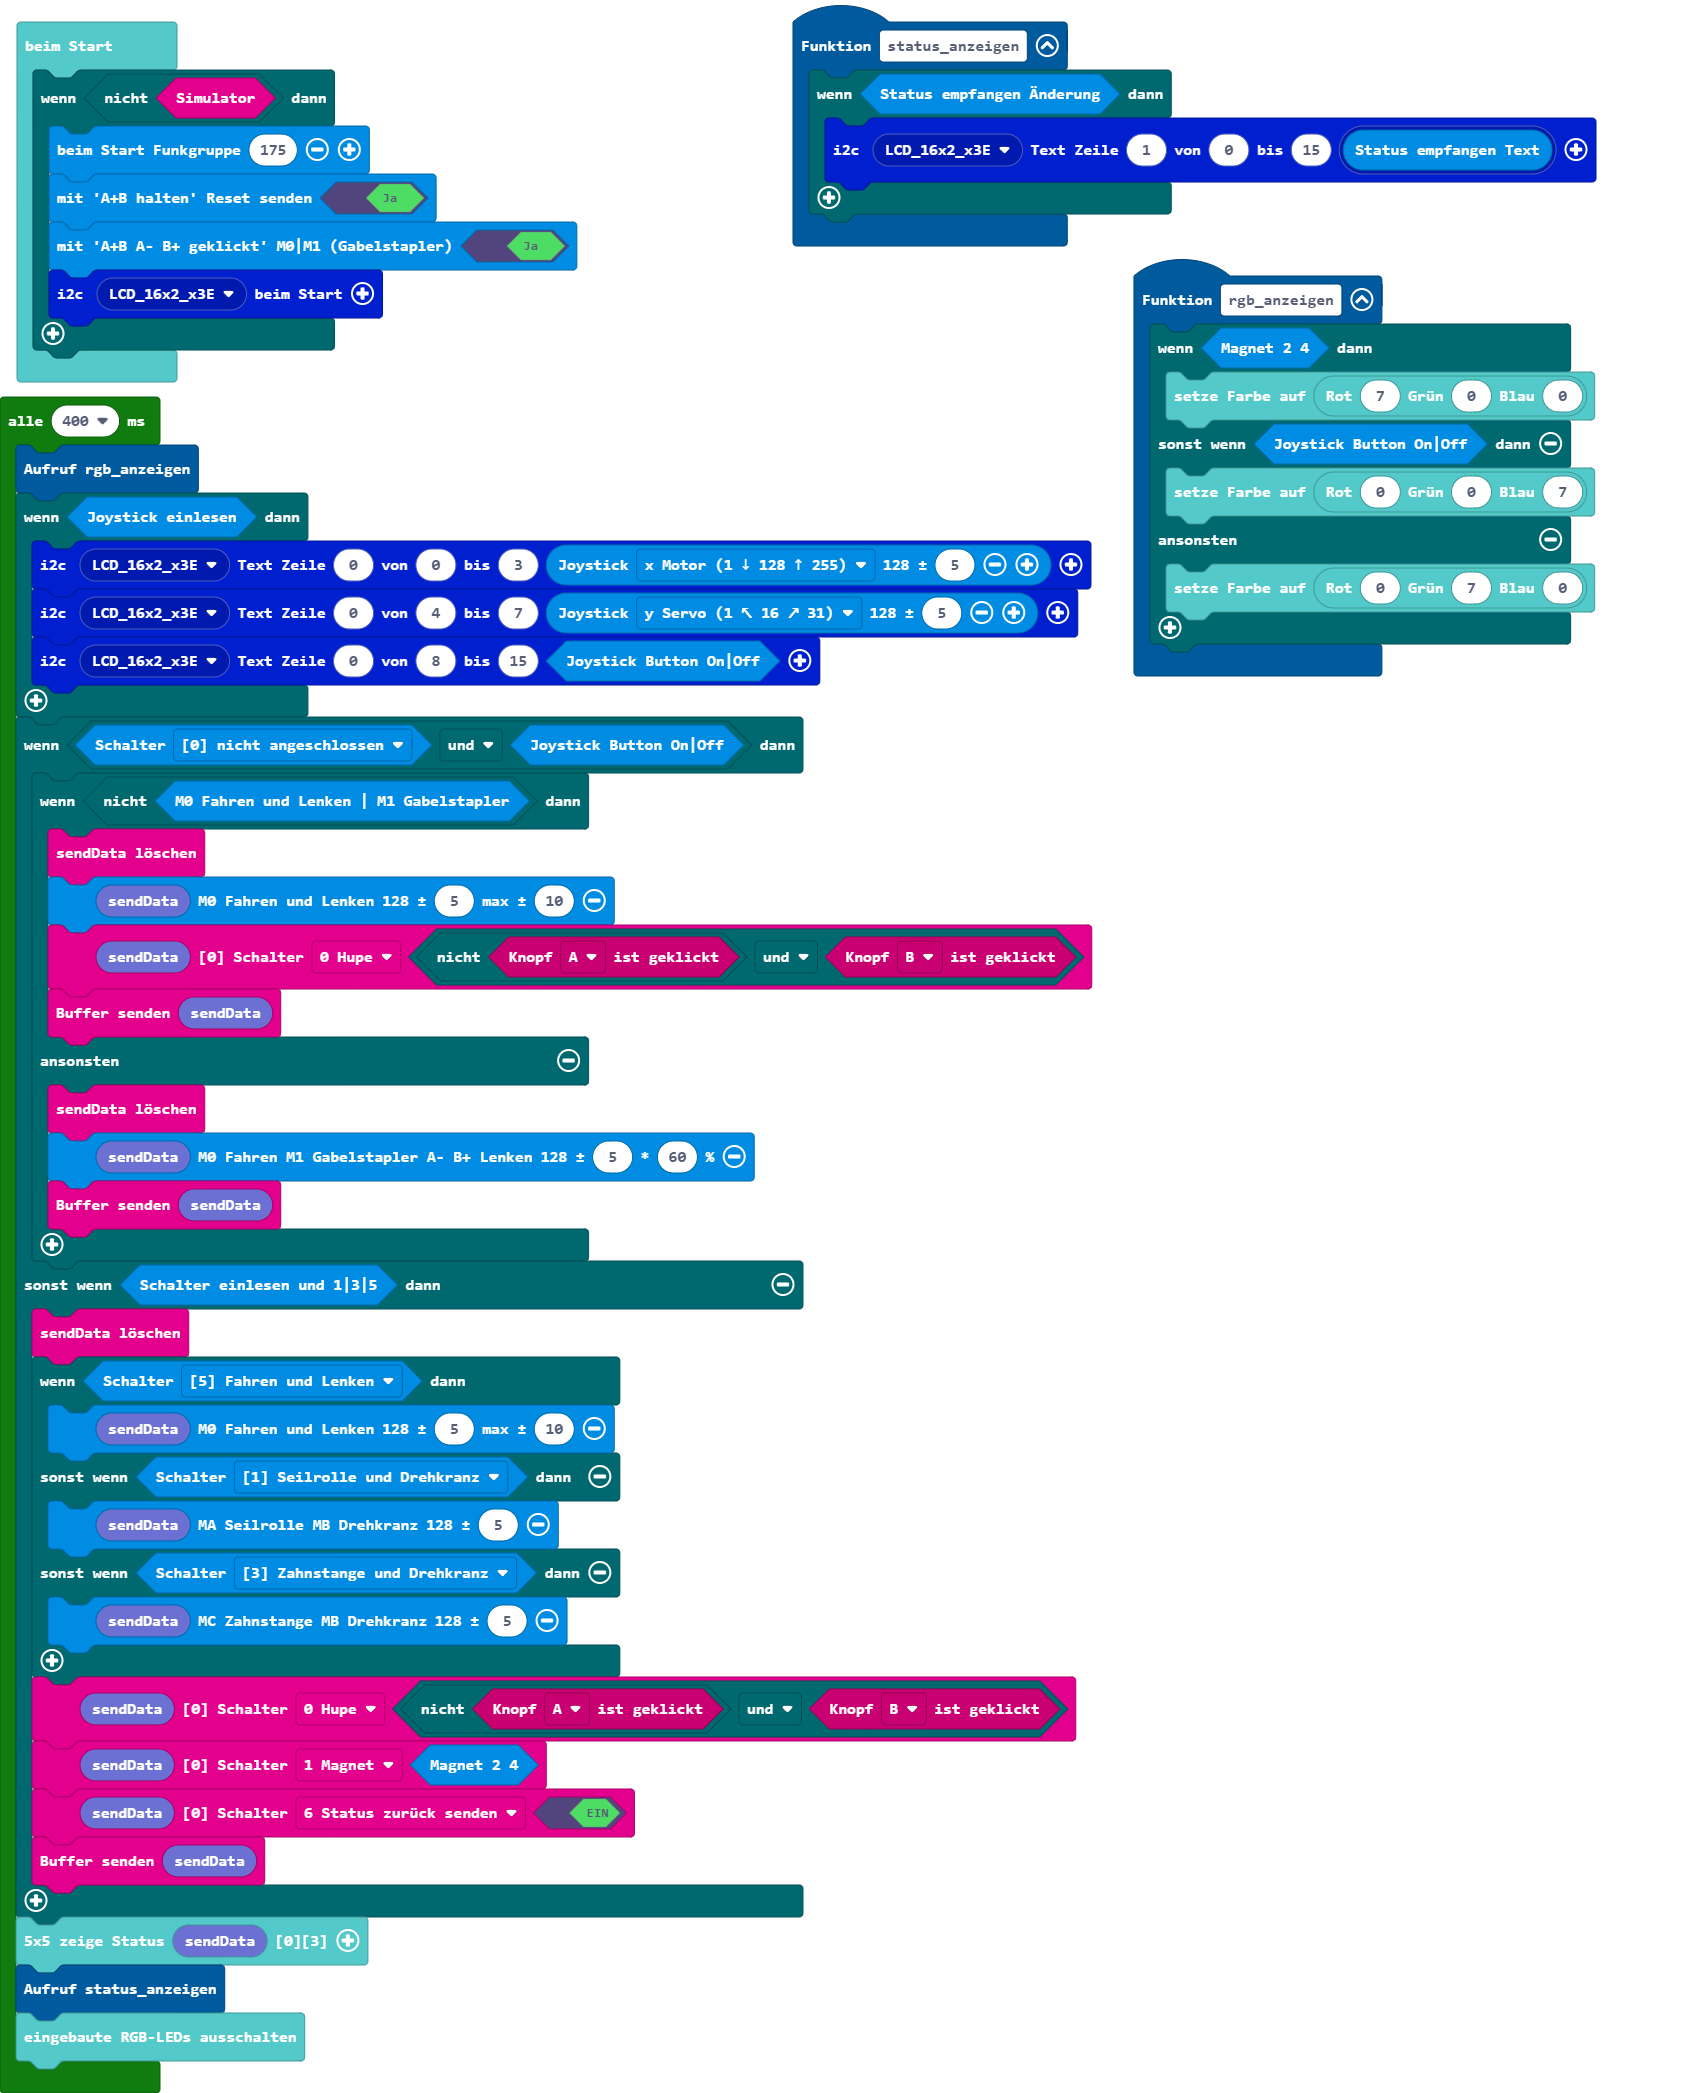
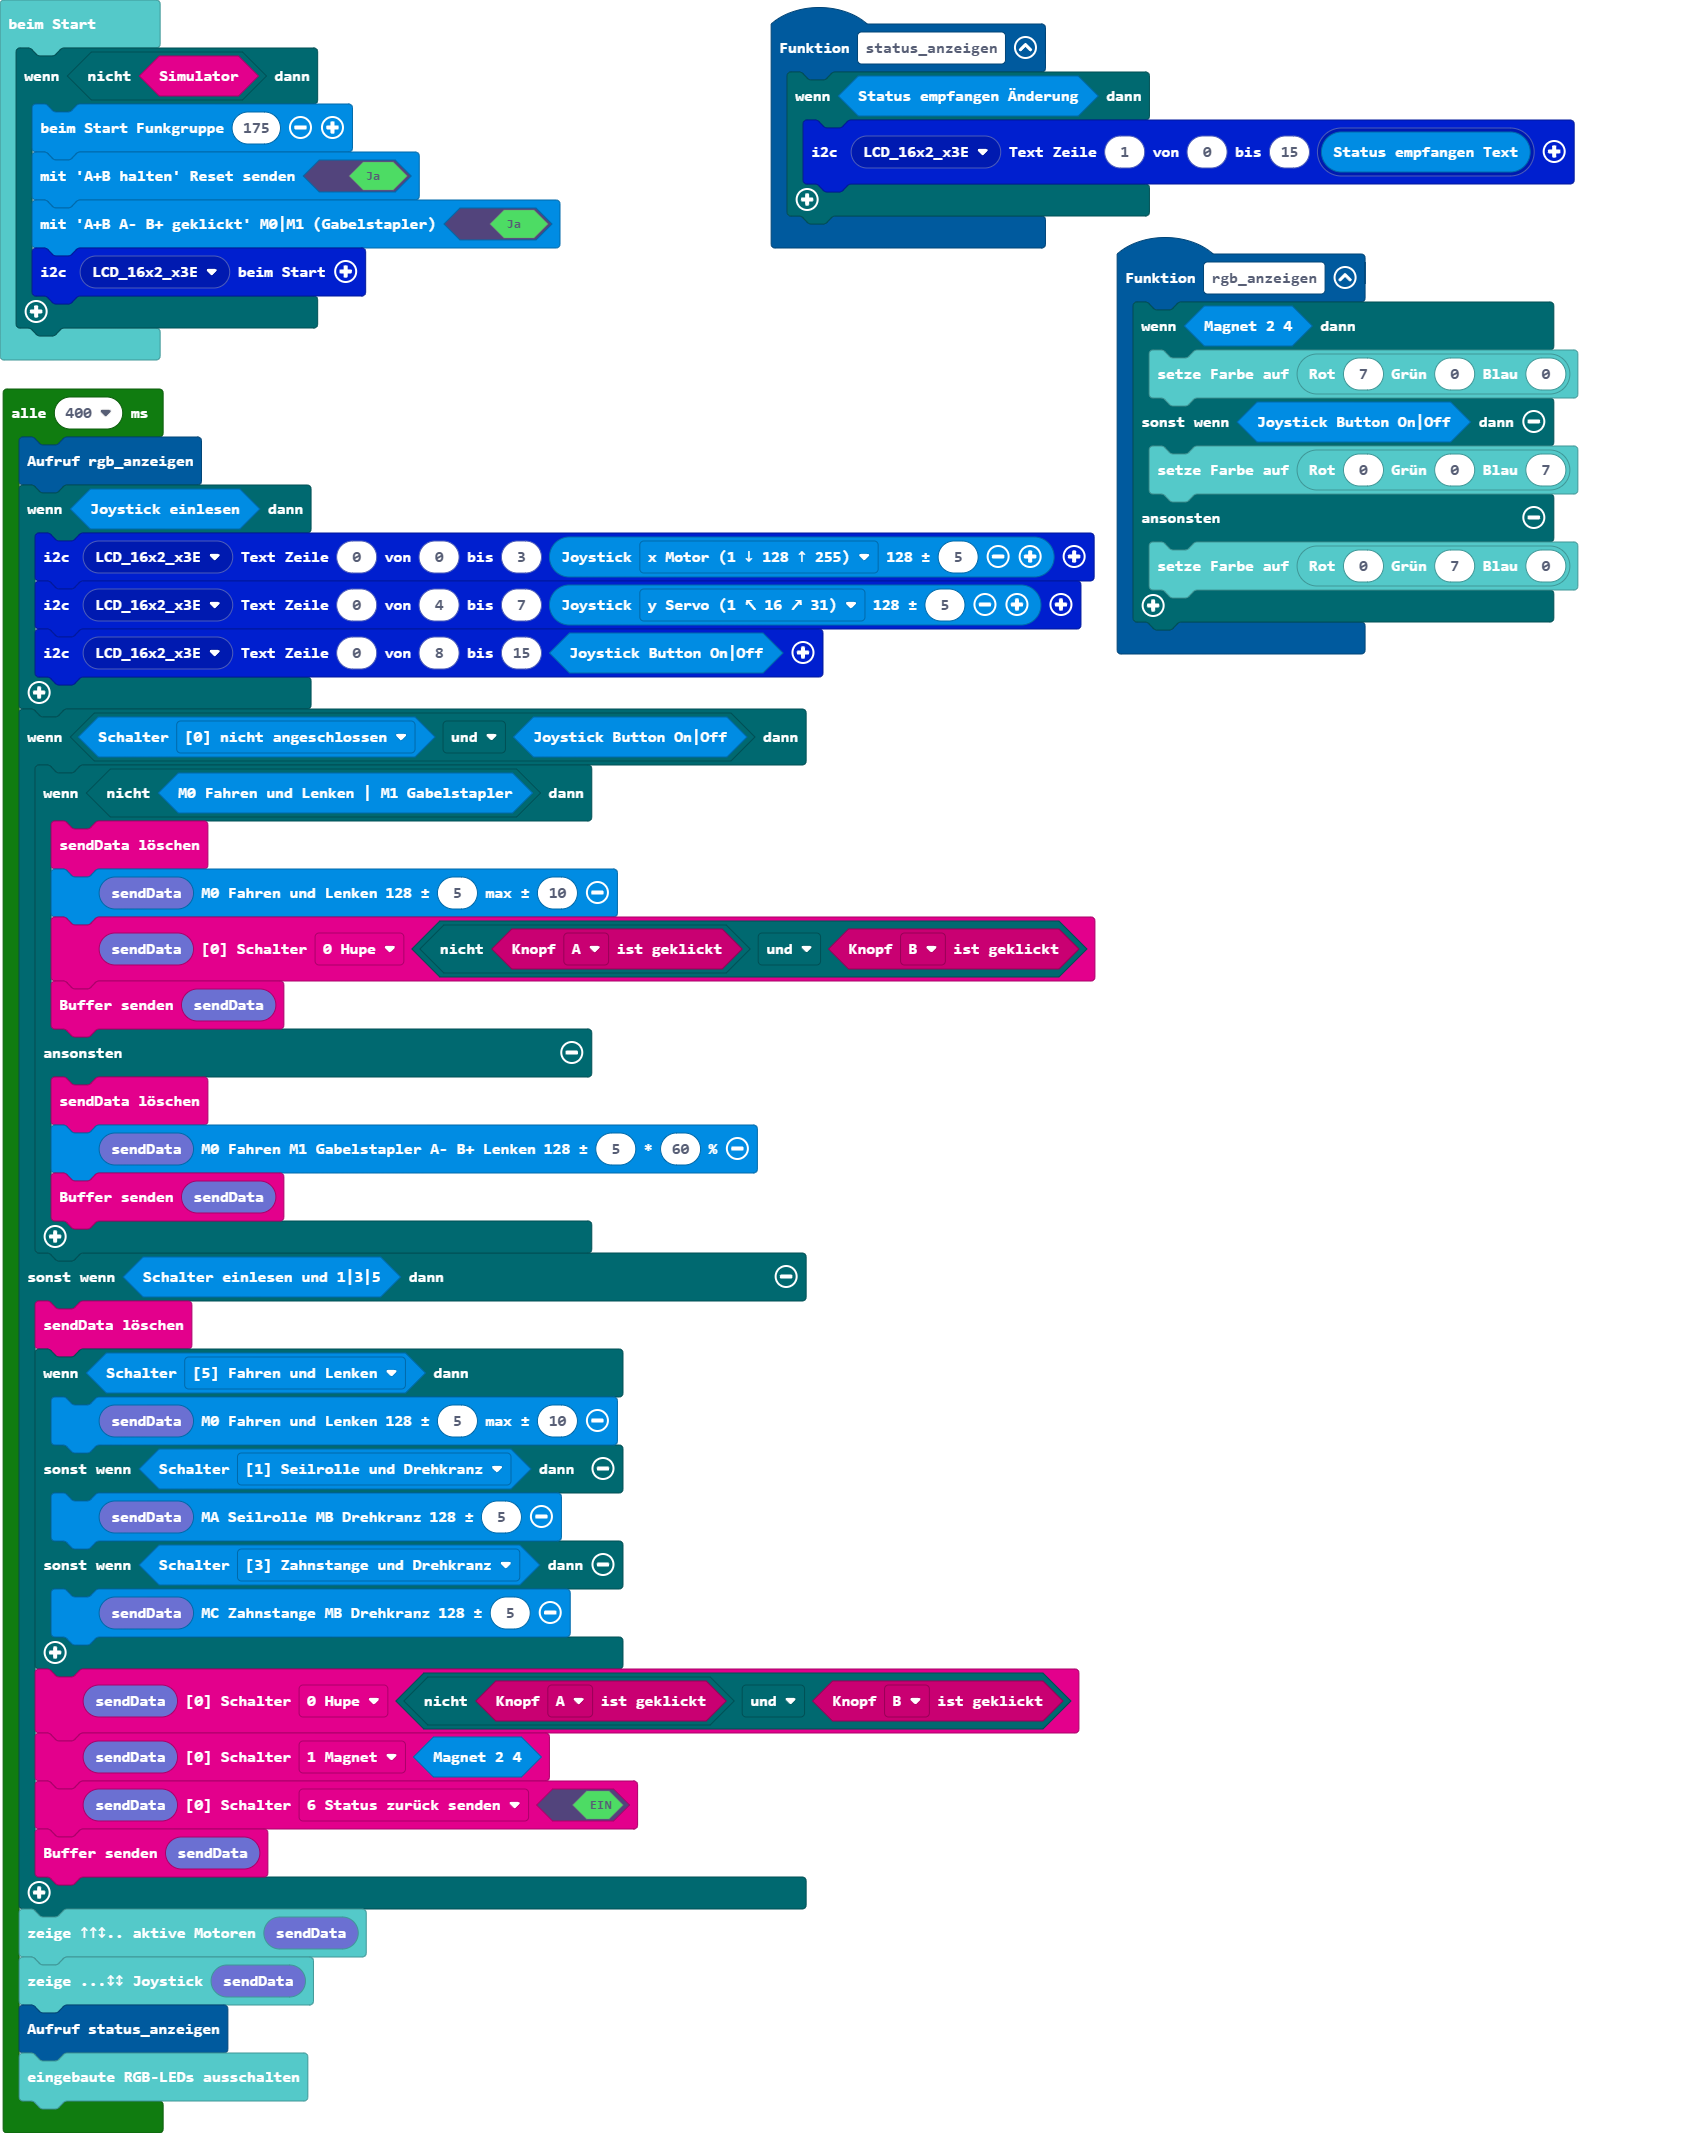
Aktualisiere pxt.json, main.blocks, main.ts

Changed region(s): [[0.0, 0.0, 0.9584, 1.0]]

diff --git a/main.ts b/main.ts
@@ -50,7 +50,8 @@ loops.everyInterval(400, function () {
         radio.setSchalter(radio.radio_sendBuffer19(), radio.e0Schalter.b6, true)
         radio.sendData(radio.radio_sendBuffer19())
     }
-    radio.zeige5x5Status(radio.radio_sendBuffer19())
+    radio.zeige5x5Buffer(radio.radio_sendBuffer19())
+    radio.zeige5x5Joystick(radio.radio_sendBuffer19())
     status_anzeigen()
     basic.turnRgbLedOff()
 })
